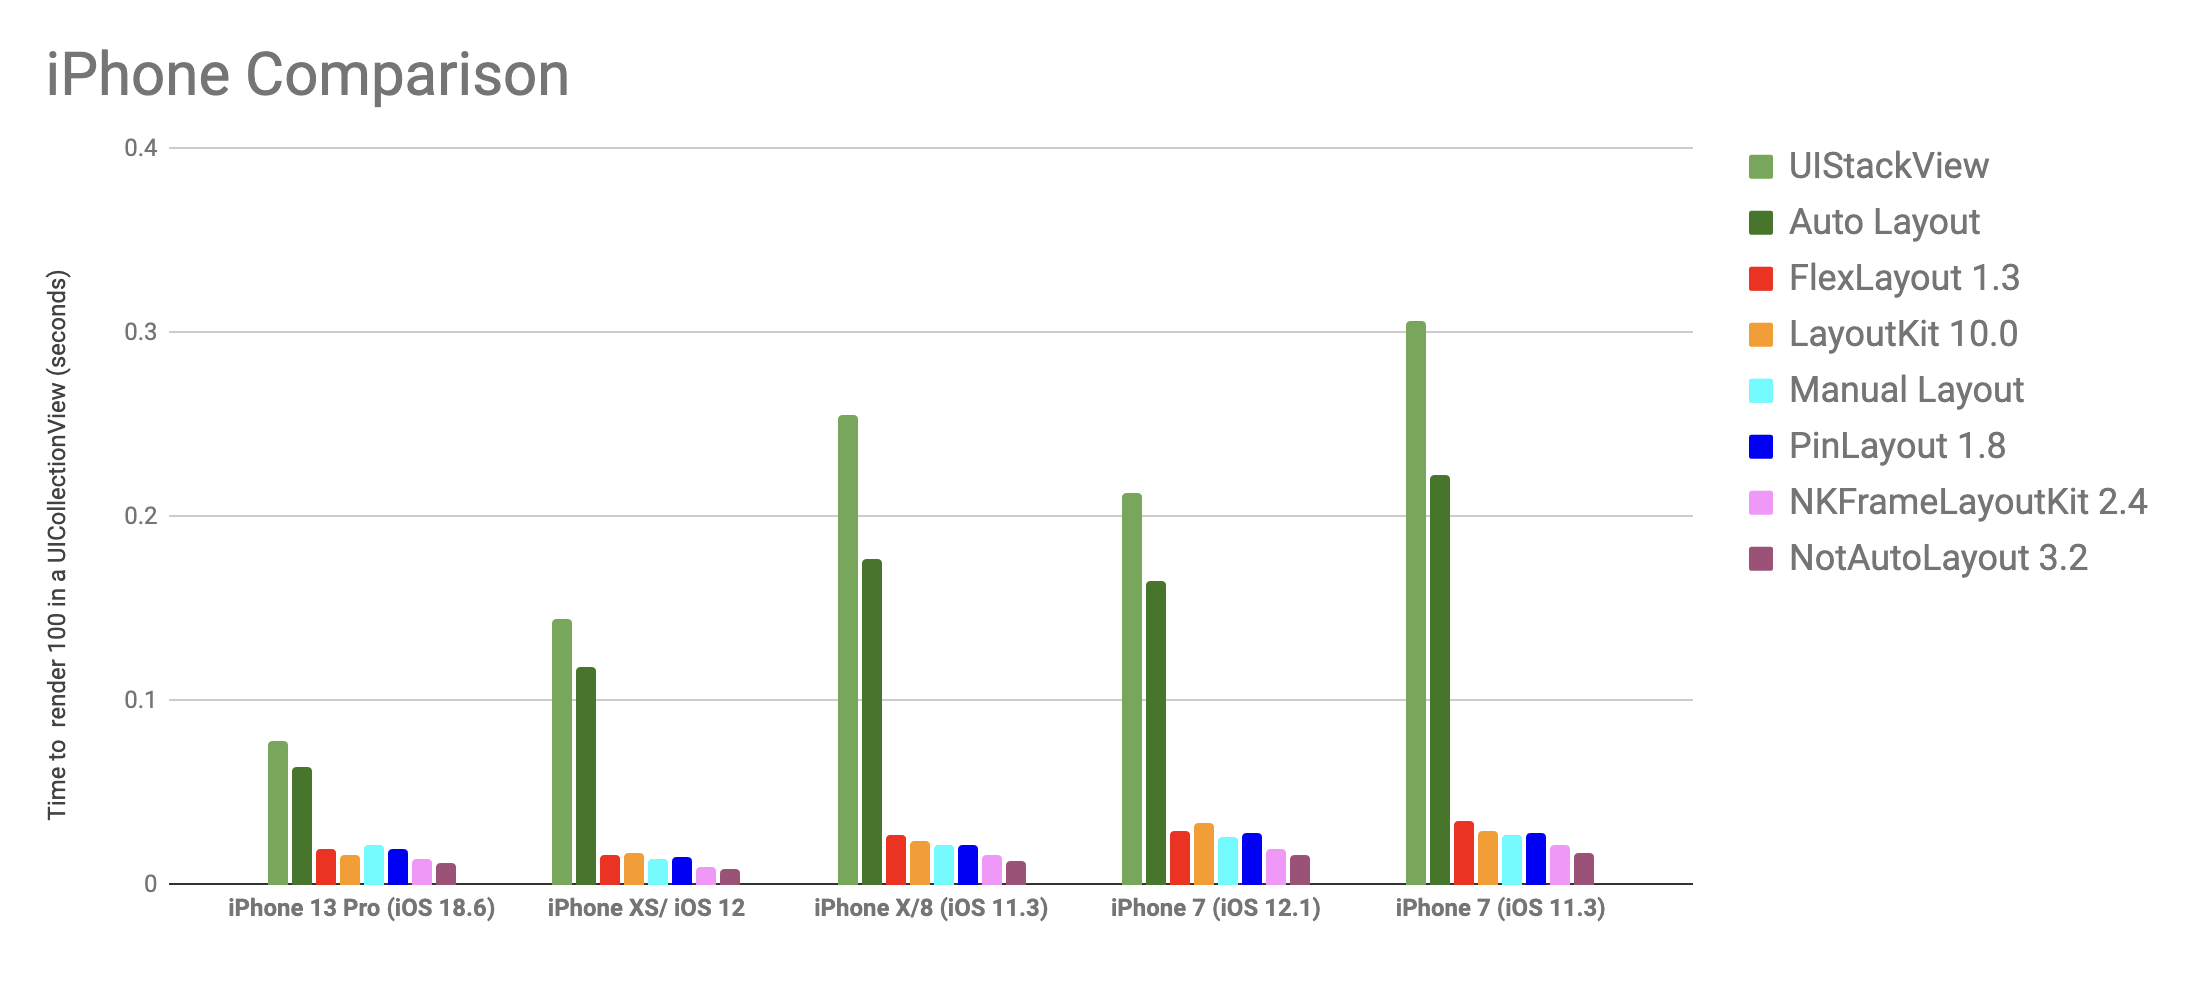
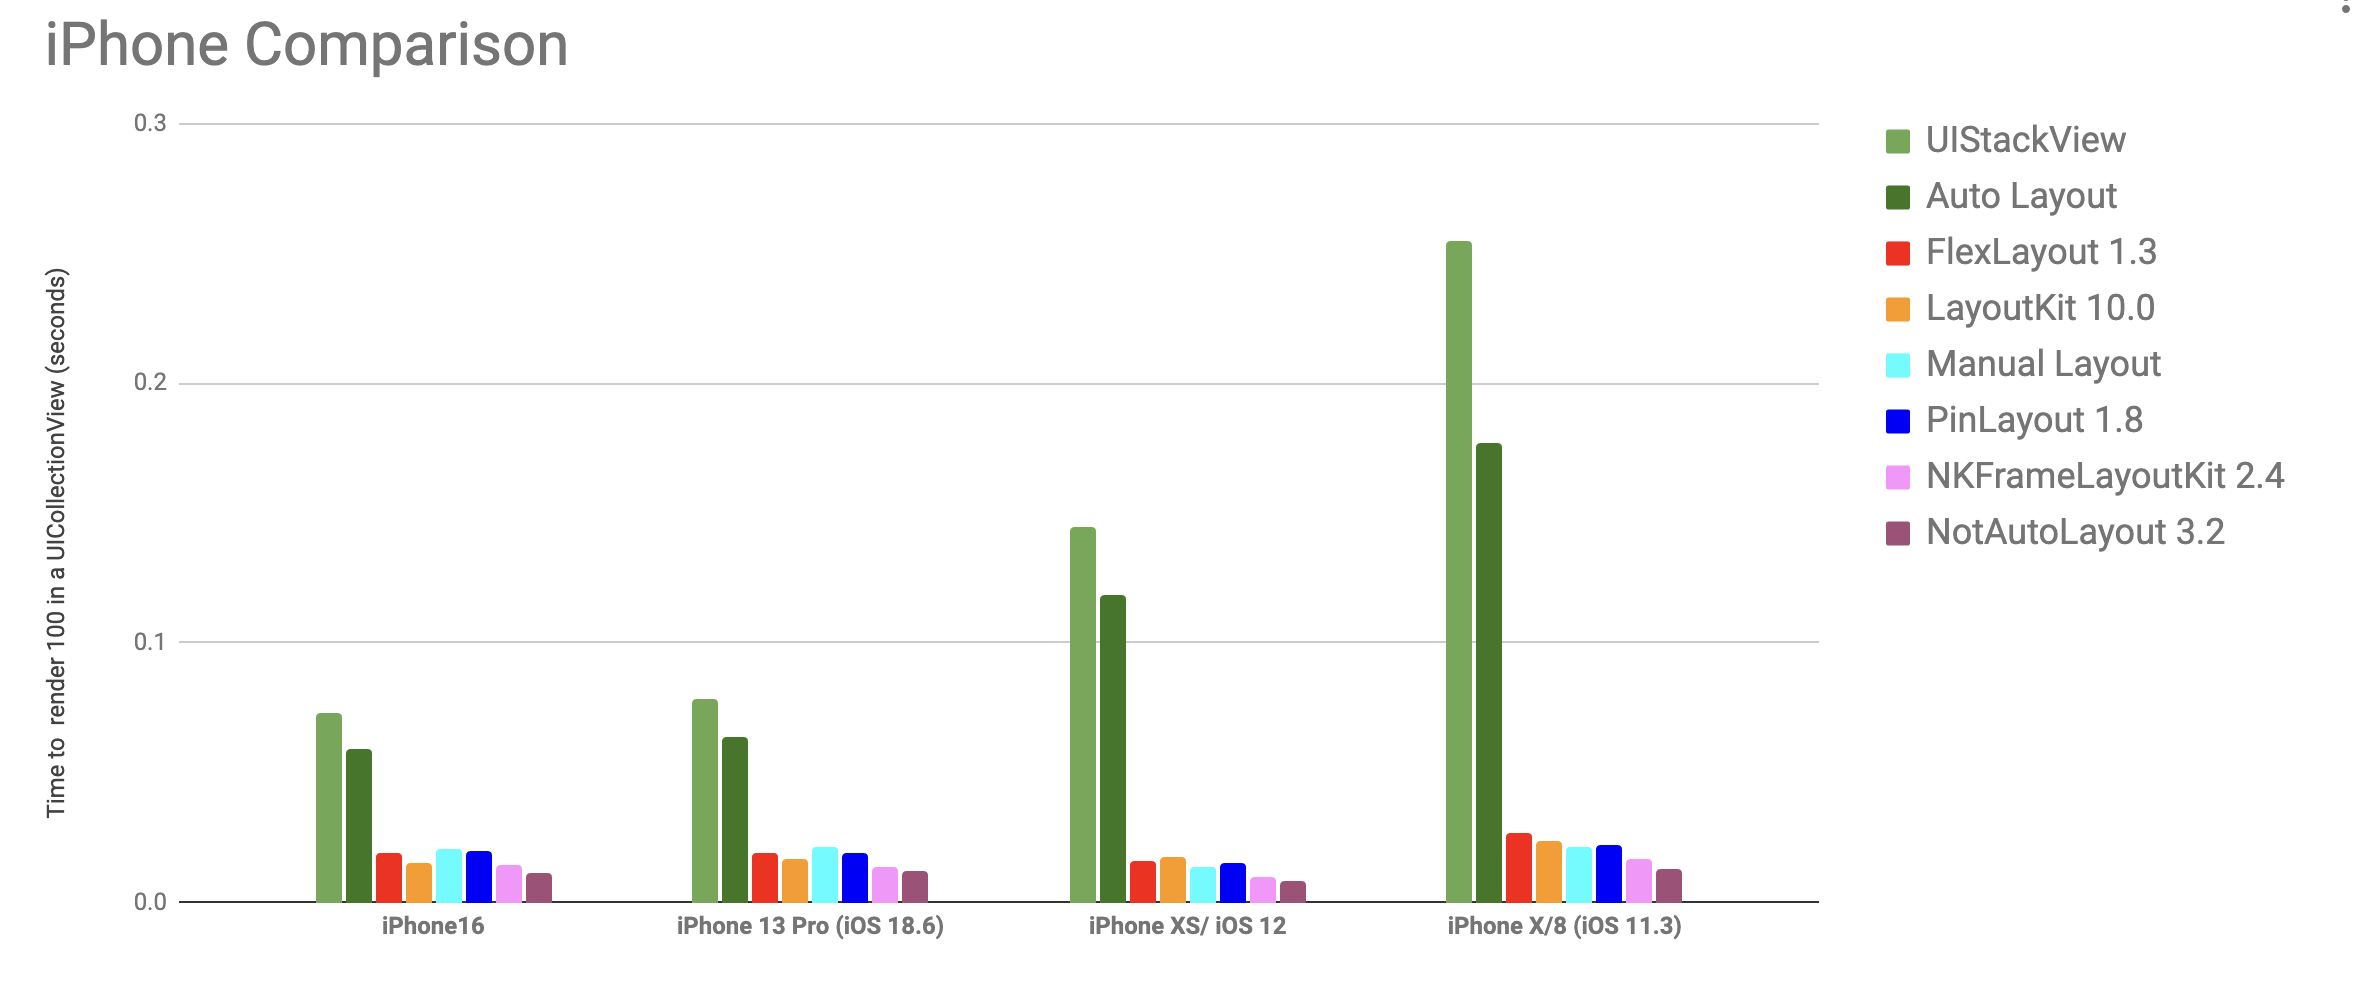
Add iPhone 16

Changed region(s): [[0.0617, 0.2444, 0.7713, 0.947], [0.0, 0.0305, 0.9873, 0.5804], [0.0, 0.2749, 0.0309, 0.8248]]

diff --git a/LayoutFrameworkBenchmark/Benchmarks/BenchmarkViewController.swift b/LayoutFrameworkBenchmark/Benchmarks/BenchmarkViewController.swift
@@ -24,7 +24,7 @@ class BenchmarkViewController: UITableViewController {
             return CollectionViewControllerFeedItemAutoLayoutView(data: data)
         }),
         
-        ViewControllerData(title: "FlexLayout 1.3", factoryBlock: { viewCount in
+        ViewControllerData(title: "FlexLayout 2.2", factoryBlock: { viewCount in
             let data = FeedItemData.generate(count: viewCount)
             return CollectionViewControllerFeedItemFlexLayoutView(data: data)
         }),
@@ -49,12 +49,12 @@ class BenchmarkViewController: UITableViewController {
             return CollectionViewControllerFeedItemNotAutoLayoutView(data: data)
         }),
         
-        ViewControllerData(title: "PinLayout 1.10", factoryBlock: { viewCount in
+        ViewControllerData(title: "PinLayout 1.10.6", factoryBlock: { viewCount in
             let data = FeedItemData.generate(count: viewCount)
             return CollectionViewControllerFeedItemPinLayoutView(data: data)
         }),
 
-        ViewControllerData(title: "Texture 3.1", factoryBlock: { viewCount in
+        ViewControllerData(title: "Texture 3.2", factoryBlock: { viewCount in
             let data = FeedItemData.generate(count: viewCount)
             return TextureCollectionViewController(data: data)
         }),

diff --git a/README.md b/README.md
@@ -38,7 +38,7 @@ It displays the performance when layouting UICollectionView cells. This graph sh
 
 The **Y axis** indicates the **number of seconds** to render all cells.
 
-<a href="docs_markdown/benchmark_comparison_all.png"><img src="docs_markdown/benchmark_comparison_all.png"/></a>
+<a href="docs_markdown/benchmark_comparison_all.png"><img src="docs_markdown/benchmark_comparison_all.png"/></a> 
 <br>
 
 
@@ -115,6 +115,9 @@ You can see the benchmark's data and charts in this **[Google Spreadsheet Docume
 ##### Details for different devices
 
 The **X axis** in following charts indicates the **number of cells** contained for each pass. The **Y axis** indicates the **number of seconds** to render all cells from one pass.
+
+<a href="docs_markdown/benchmark_iphonexs.png"><img src="docs_markdown/benchmark_iphone16.png"/></a>
+<br>
 
 <a href="docs_markdown/benchmark_iphonexs.png"><img src="docs_markdown/benchmark_iphone13pro.png"/></a>
 <br>
